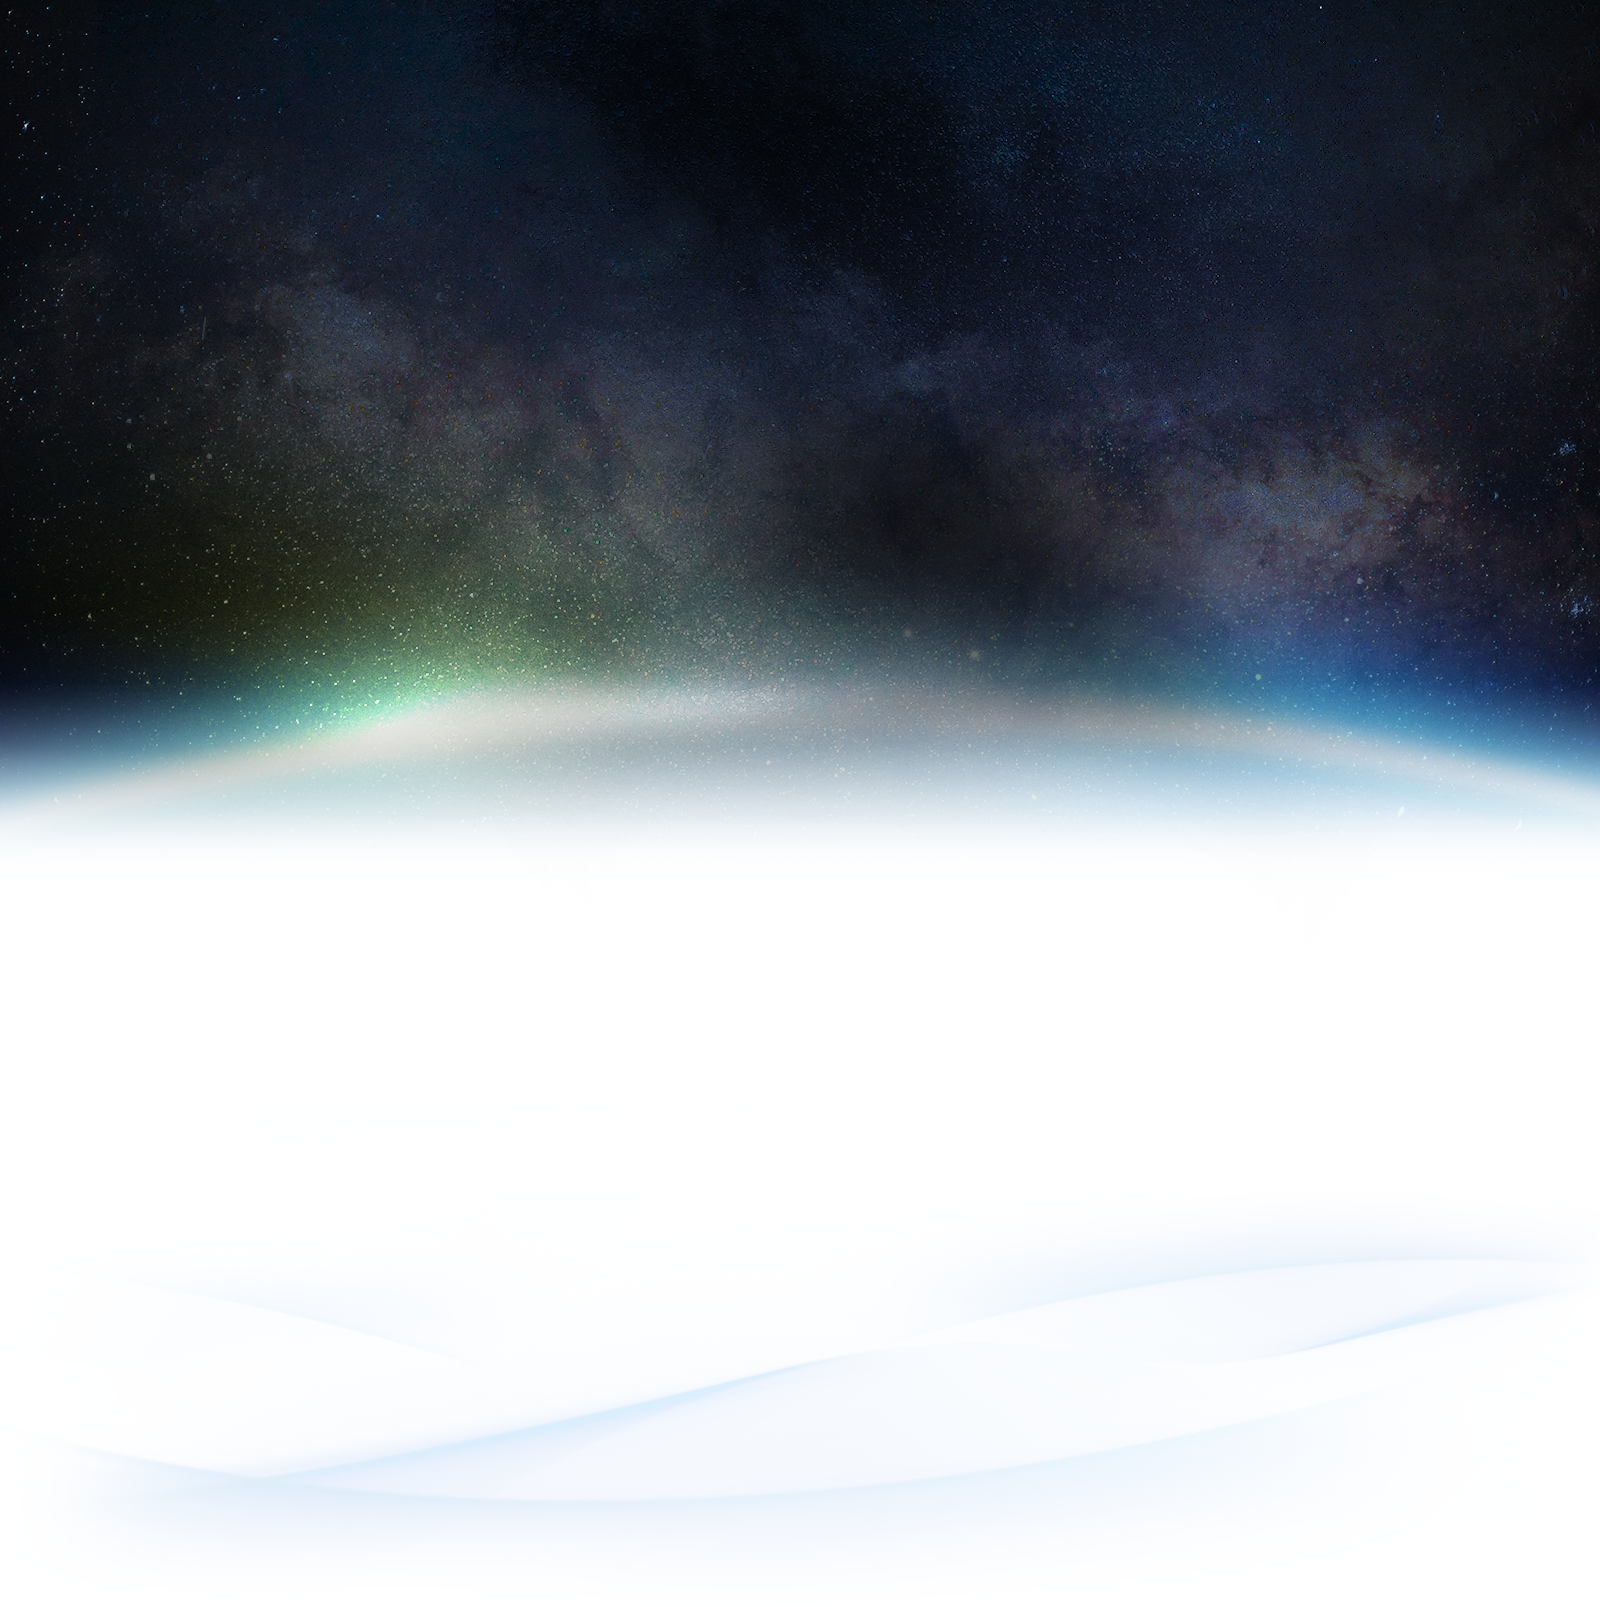
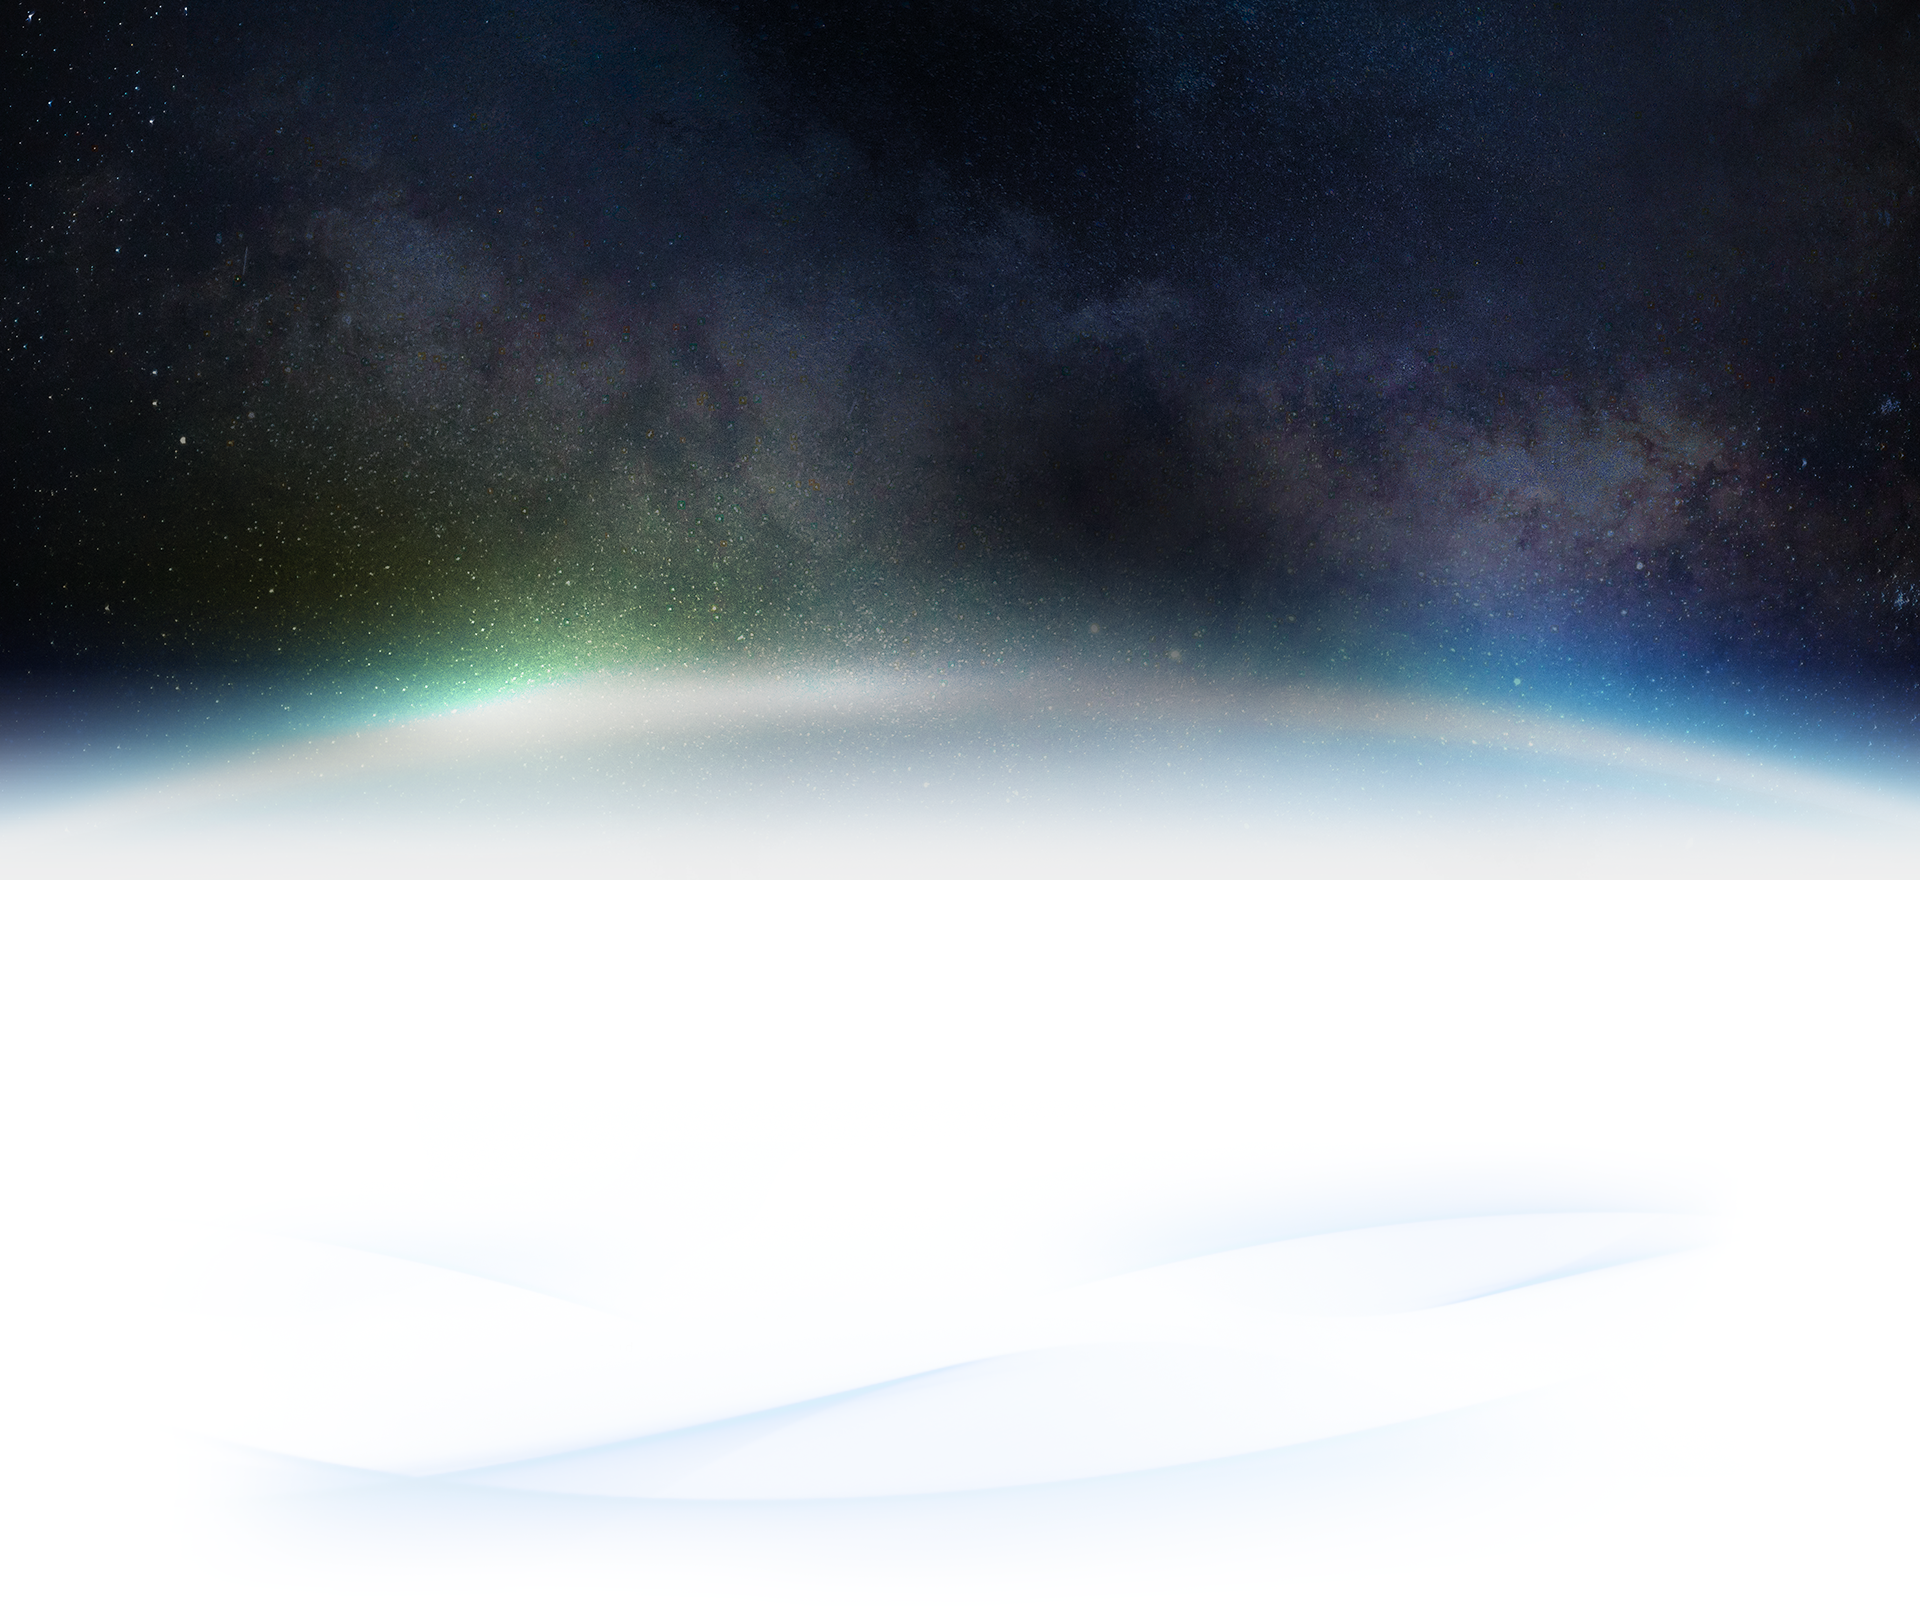
layout 배경 이미지 변경 및 films 컴포넌트 수정 (#3)

diff --git a/html/css/emotive-driving.css b/html/css/emotive-driving.css
@@ -210,19 +210,25 @@
 }
 .ces_2019_films .films-slide .slider-for .slick-arrow {
   position: absolute;
-  right: 0;
   bottom: -60px;
   width: 22px;
   height: 40px;
   background: url(../images/arr-slide.png) no-repeat;
-  background-size: auto 40px;
   text-indent: -9999px;
 }
 .ces_2019_films .films-slide .slider-for .slick-arrow.slick-prev {
+  right: 62px;
   background-position: 0 -40px;
 }
+.ces_2019_films .films-slide .slider-for .slick-arrow.slick-prev.slick-disabled {
+  background-position: 0 0;
+}
 .ces_2019_films .films-slide .slider-for .slick-arrow.slick-next {
-  background-position: 22px -40px;
+  right: 0;
+  background-position: -22px -40px;
+}
+.ces_2019_films .films-slide .slider-for .slick-arrow.slick-next.slick-disabled {
+  background-position: -22px 0;
 }
 .ces_2019_films .films-slide .nav-title {
   display: block;
@@ -234,7 +240,7 @@
   text-align: center;
 }
 .ces_2019_films .films-slide .slider-nav {
-  margin-top: 58px;
+  margin-top: 40px;
 }
 .ces_2019_films .films-slide .slider-nav:after {
   content: '';
@@ -271,7 +277,7 @@
   border: 4px solid #bb162b;
   box-sizing: border-box;
 }
-.ces_2019_films .films-slide .slider-nav > li.is-active .thumb-title {
+.ces_2019_films .films-slide .slider-nav .slick-slide.is-active .thumb-title {
   color: #bb162b;
 }
 

diff --git a/html/emotive-driving.html b/html/emotive-driving.html
@@ -1055,7 +1055,9 @@
 
 								$('.slider-nav')
 									.on('init', function(event, slick) {
+										var title = $('.slider-nav .slick-slide.slick-current').find('.thumb-title').text(); 
 										$('.slider-nav .slick-slide.slick-current').addClass('is-active');
+										$('.nav-title').text(title);
 									})
 									.slick({
 										slidesToShow: 5,
@@ -1068,8 +1070,10 @@
 								$('.slider-for').on('afterChange', function(event, slick, currentSlide) {
 									$('.slider-nav').slick('slickGoTo', currentSlide);
 									var currrentNavSlideElem = '.slider-nav .slick-slide[data-slick-index="' + currentSlide + '"]';
+									var title = $(currrentNavSlideElem).find('.thumb-title').text();
 									$('.slider-nav .slick-slide.is-active').removeClass('is-active');
 									$(currrentNavSlideElem).addClass('is-active');
+									$('.nav-title').text(title);
 								});
 
 								$('.slider-nav').on('click', '.slick-slide', function(event) {
